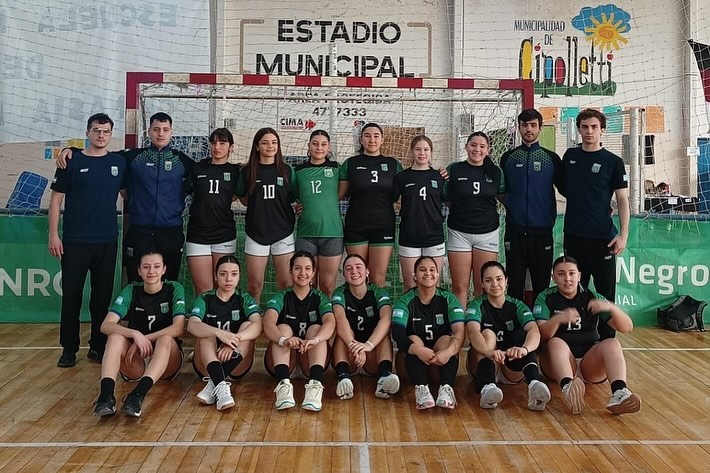
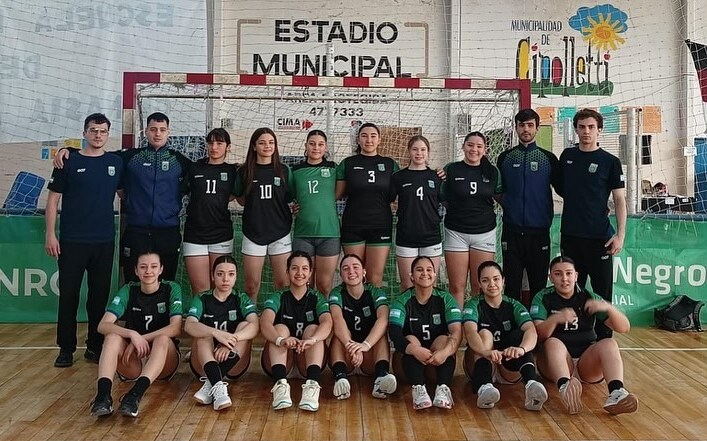
slider frame a resolucion fija

diff --git a/PaginaWeb/estilos.css b/PaginaWeb/estilos.css
@@ -9,10 +9,11 @@ body {
 
 header {
     display: flex;
-    min-height: 70px;
+    min-height: 80px;
     background-color: #3e5982;
     align-items: center;
-    padding: 10px;
+    width: 100%;
+    position: fixed;
 }
 
 .logo {
@@ -23,6 +24,7 @@ header {
 }
 
 .logo img {
+    margin-left: 20px;
     height: 75px;
     max-width: 100%;
     width: auto;
@@ -52,11 +54,10 @@ nav a:hover {
 
 /* Estilos del Slider */
 .slider-frame {
-    width: 100%;  /* Ahora usa un porcentaje del contenedor */
-    height: 800px;
-    margin: 0px auto;
+    width: 100%; 
+    height: 80%;
     overflow: hidden;
-    
+    padding-top: 20px;
 }
 
 .slider-frame ul {
@@ -69,12 +70,11 @@ nav a:hover {
 
 .slider-frame li {
     width: 100%;
-    
 }
 
 .slider-frame img {
     width: 100%;
-    
+    height: 100%;
 }
 
 /* Animación del Slider */
@@ -107,14 +107,80 @@ nav a:hover {
 
 /* Aplicar la animación al slider */
 .slider-frame ul {
-    animation: slide 15s infinite alternate ease-in-out;
+    animation: slide 15s infinite  ease-in-out;
 }
 
-@media (max-width: 700px) {
+.grid-container {
+    display: grid;
+    grid-template-columns: repeat(auto-fit, minmax(250px, 1fr));
+    gap: 20px;
+    background-color: #3e5982;
+    margin-left: auto;
+    margin-right: auto;
+    padding: 20px;
+    max-width: 65%; /* Ancho máximo similar al de la página */
+    box-shadow: 0px 4px 8px rgba(0, 0, 0, 0.2); /* Añade algo de sombra */
+    border-radius: 5px;
+    
+}
+
+.grid-container > div {
+    background-color: #fffdd5;
+    text-align: center;
+    font-size: 18px;
+    padding: 20px;
+    border: 1px solid #ccc;
+    border-radius: 5px;
+    box-shadow: 0px 2px 4px rgba(0, 0, 0, 0.1);
+    transition: transform 0.2s ease-in-out, box-shadow 0.2s ease-in-out;
+}
+
+.grid-container > div:hover {
+    transform: scale(1.05); /* Aumenta ligeramente el tamaño al pasar el ratón */
+    box-shadow: 0px 6px 12px rgba(0, 0, 0, 0.2);
+}
+
+
+@media (max-width: 100px) {
     header {
         flex-direction: column;
     }
     nav {
+        flex-direction: column;
         padding: 10px 0;
     }
 }
+
+.noticias {
+    padding: 20px;
+    background-color: #f4f4f4;
+}
+
+.noticia {
+    background-color: white;
+    margin-bottom: 20px;
+    padding: 15px;
+    border-radius: 8px;
+    box-shadow: 0 2px 10px rgba(0, 0, 0, 0.1);
+}
+
+.noticia h2 {
+    color: #3e5982;
+}
+
+.noticia p {
+    color: #555;
+}
+
+.leer-mas {
+    display: inline-block;
+    margin-top: 10px;
+    text-decoration: none;
+    color: #1da146;
+    font-weight: 600;
+}
+
+.leer-mas:hover {
+    color: #0055a5;
+}
+

diff --git a/PaginaWeb/noticias.html b/PaginaWeb/noticias.html
@@ -1,0 +1,50 @@
+<!DOCTYPE html>
+<html lang="es">
+    <head>
+        <meta charset="UTF-8">
+        <meta name="viewport" content="width=device-width, initial-scale=1.0">
+        <link href="https://fonts.googleapis.com/css2?family=Roboto:wght@400;700&display=swap" rel="stylesheet">
+        <link rel="stylesheet" href="estilos.css">
+        <title>Noticias - Club Rio Negro</title>
+    </head>
+    <body>
+        <header>
+            <div class="logo">
+                <img src="Recursos/club rio negro logo.png" alt="Logo del Club">
+            </div>
+            <nav>
+                <a href="index.html" class="nav-link">Inicio</a>
+                <a href="noticias.html" class="nav-link">Noticias</a>
+                <a href="#" class="nav-link">Contacto</a>
+            </nav>
+        </header>
+
+        <!-- Sección de Noticias -->
+        <div class="noticias">
+            <h1>Últimas Noticias</h1>
+            
+            <!-- Noticia 1 -->
+            <article class="noticia">
+                <h2>Título de la noticia 1</h2>
+                <p>Resumen de la noticia 1...</p>
+                <a href="#" class="leer-mas">Leer más</a>
+            </article>
+
+            <!-- Noticia 2 -->
+            <article class="noticia">
+                <h2>Título de la noticia 2</h2>
+                <p>Resumen de la noticia 2...</p>
+                <a href="#" class="leer-mas">Leer más</a>
+            </article>
+
+            <!-- Noticia 3 -->
+            <article class="noticia">
+                <h2>Título de la noticia 3</h2>
+                <p>Resumen de la noticia 3...</p>
+                <a href="#" class="leer-mas">Leer más</a>
+            </article>
+
+            <!-- Agregar más noticias aquí -->
+        </div>
+    </body>
+</html>

diff --git a/PaginaWeb/index.html b/PaginaWeb/index.html
@@ -15,7 +15,7 @@
             </div>
             <nav>
                 <a href="#" class="nav-link">Inicio</a>
-                <a href="#" class="nav-link">Noticias</a>
+                <a href="noticias.html" class="nav-link">Noticias</a>
                 <a href="#" class="nav-link">Contacto</a>
             </nav>
         </header>
@@ -25,7 +25,13 @@
                 <li><img src="Recursos/sub18 h m.jpg" alt=""></li>
                 <li><img src="Recursos/sub18 v f.jpg" alt=""></li>
                 <li><img src="Recursos/sub18 v m.jpg" alt=""></li>
+               
             </ul>
+        </div>
+        <div class="grid-container">
+            <div>1</div>
+            <div>2</div>
+            <div>3</div>
         </div>
     </body>
 </html>
